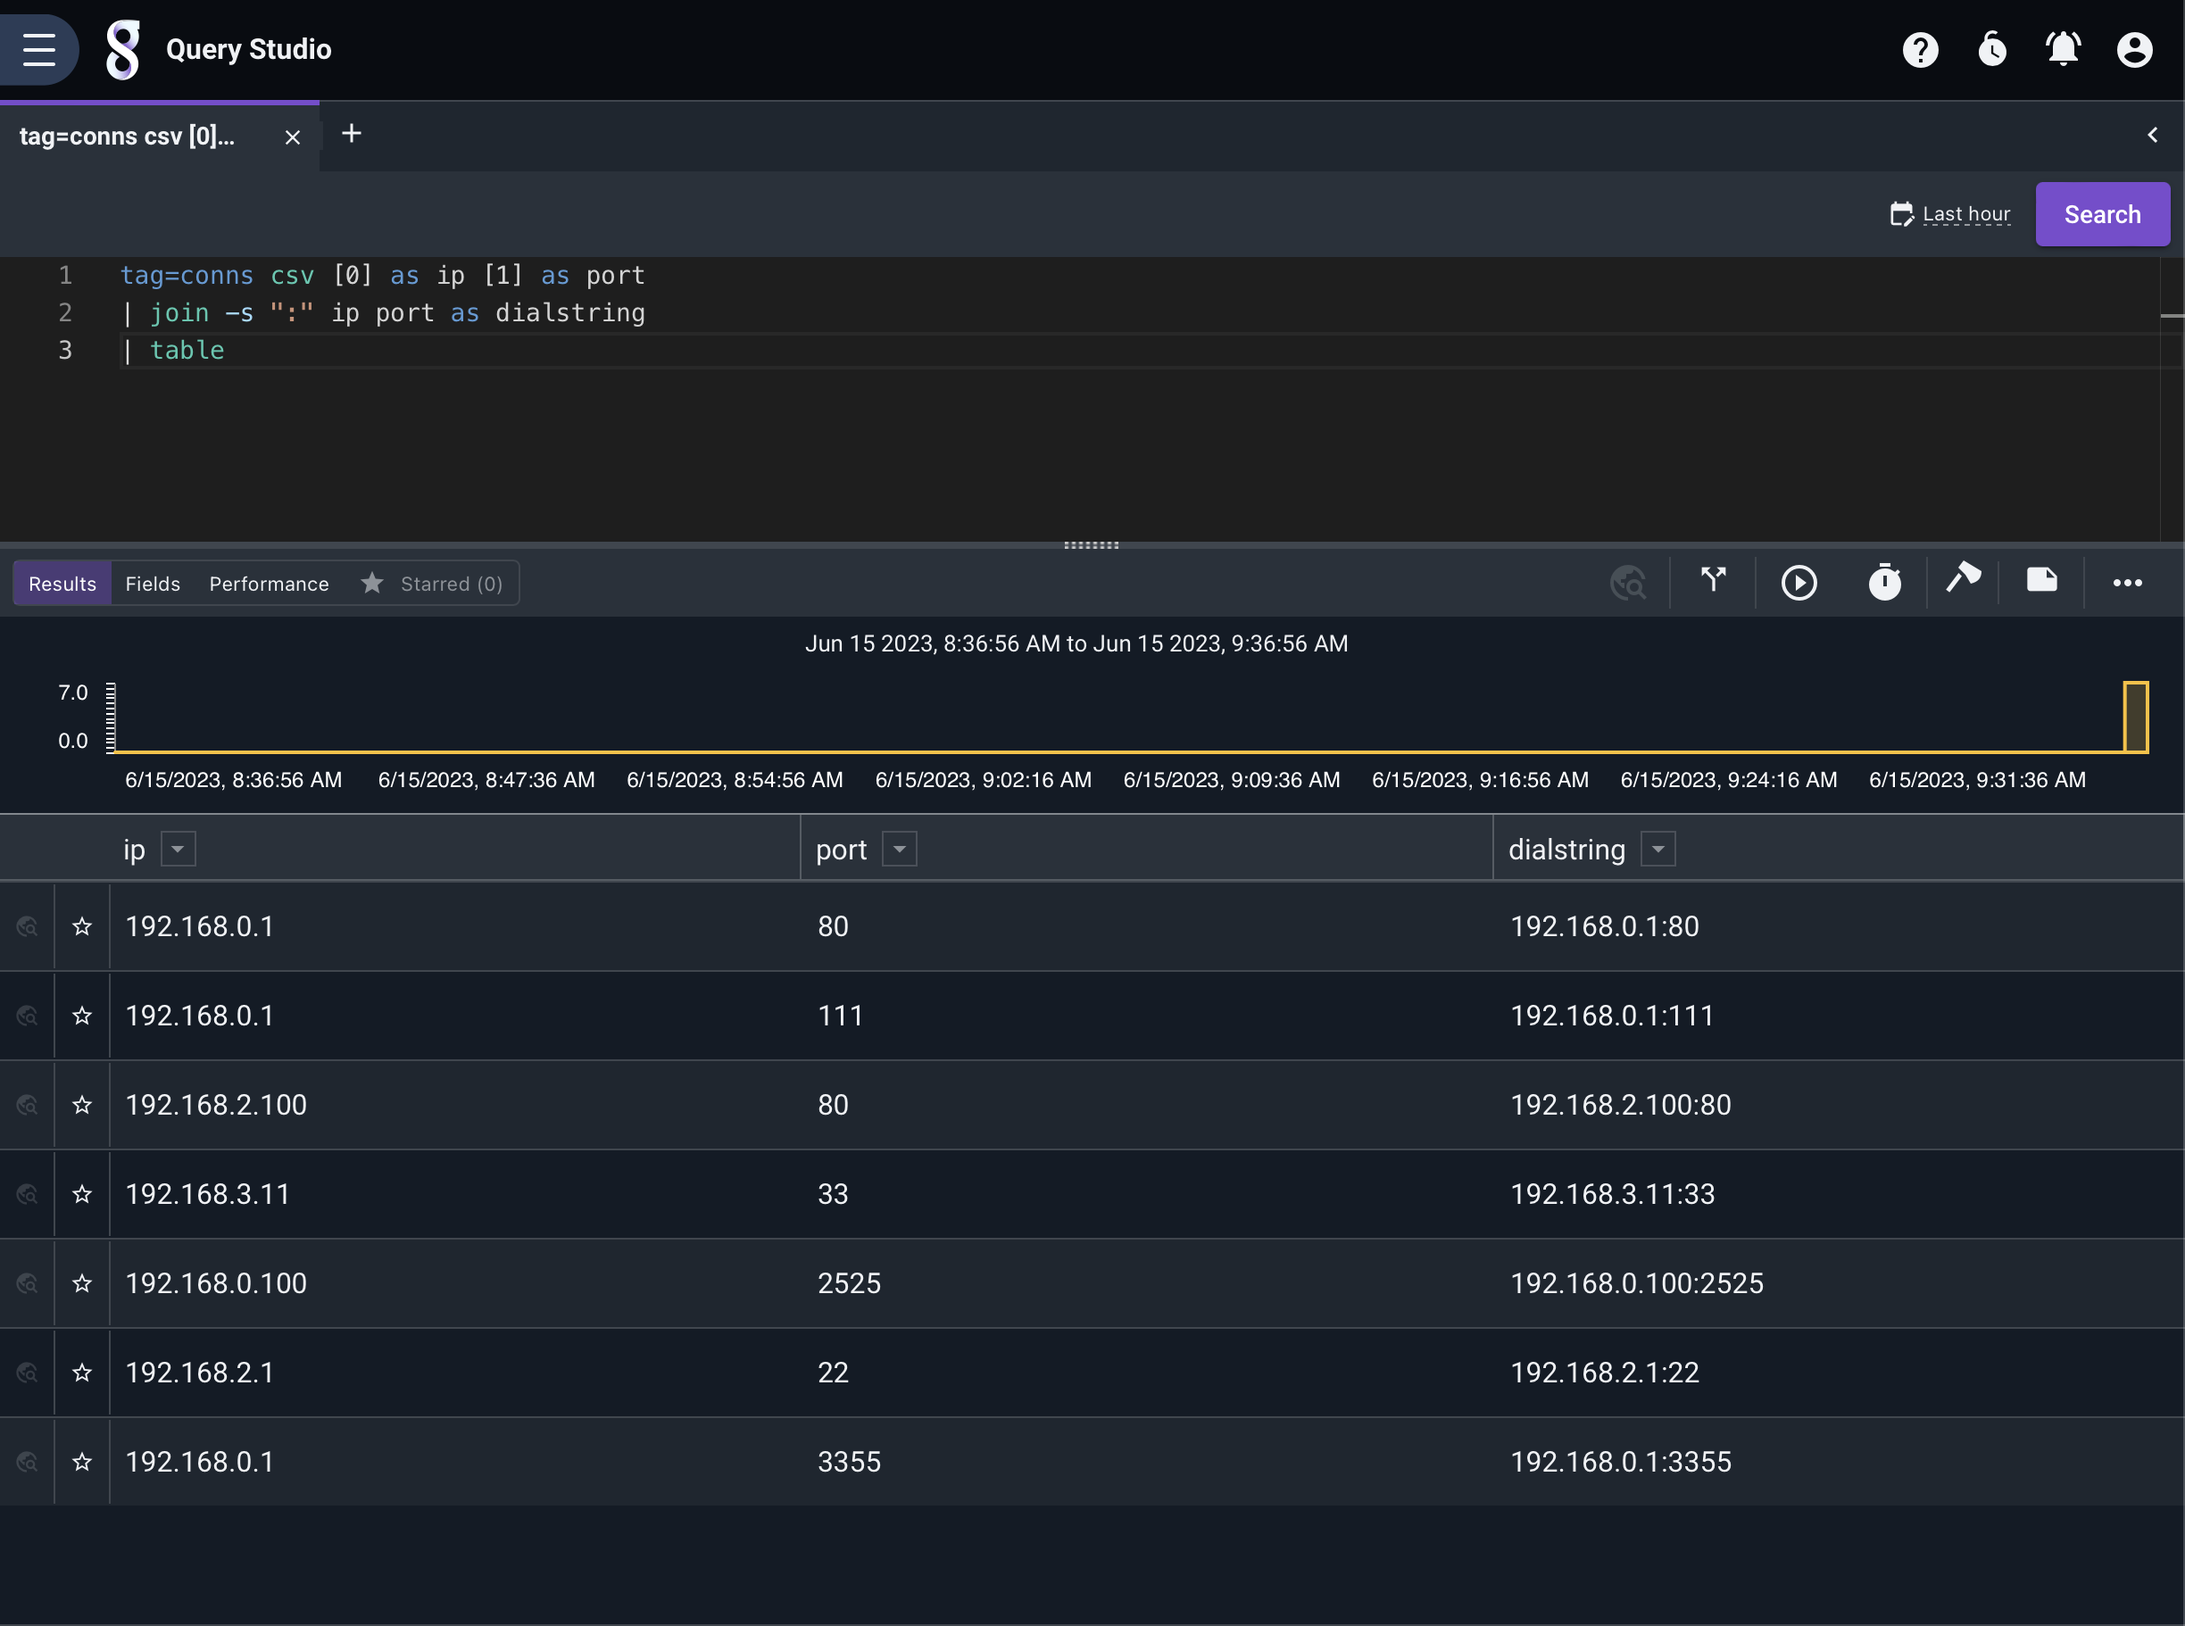
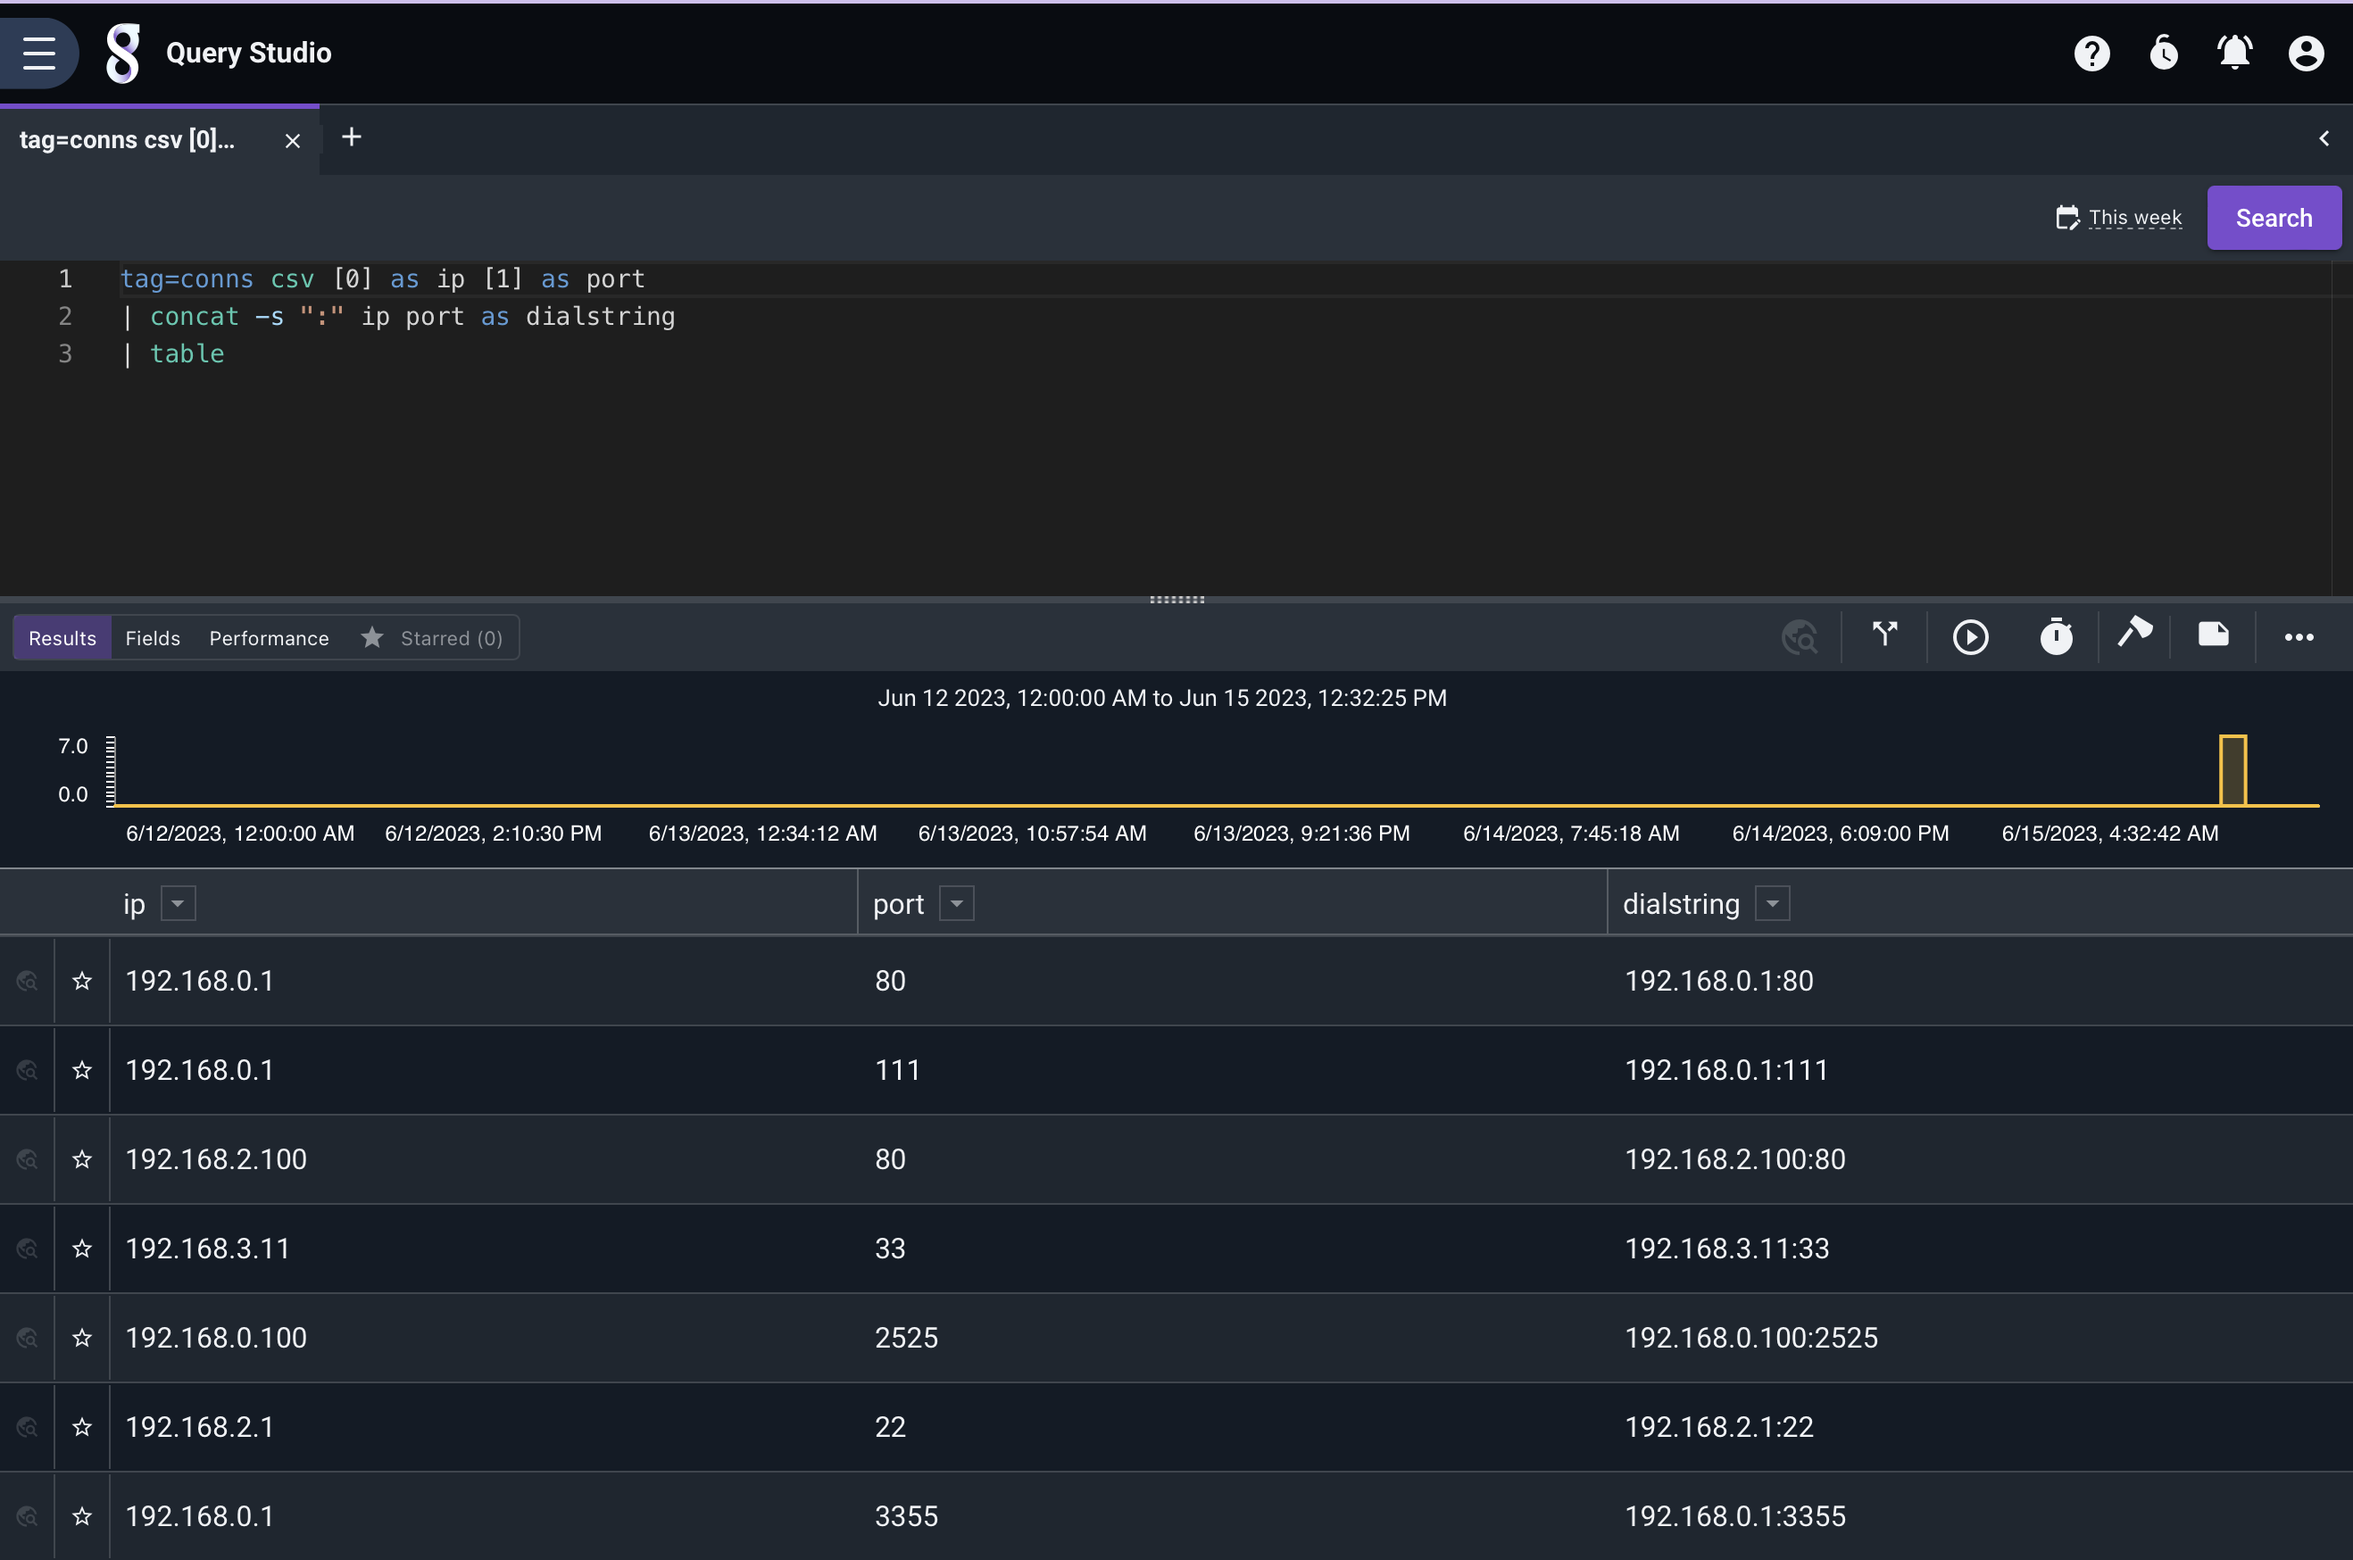
fix example

diff --git a/search/concat/concat.md b/search/concat/concat.md
@@ -18,7 +18,7 @@ Any number of enumerated values can be specified. An output enumerated value is 
 
 ```gravwell
 tag=conns csv [0] as ip [1] as port
-| join -s ":" ip port as dialstring
+| concat -s ":" ip port as dialstring
 | table
 ```
 ![](concat.png)
